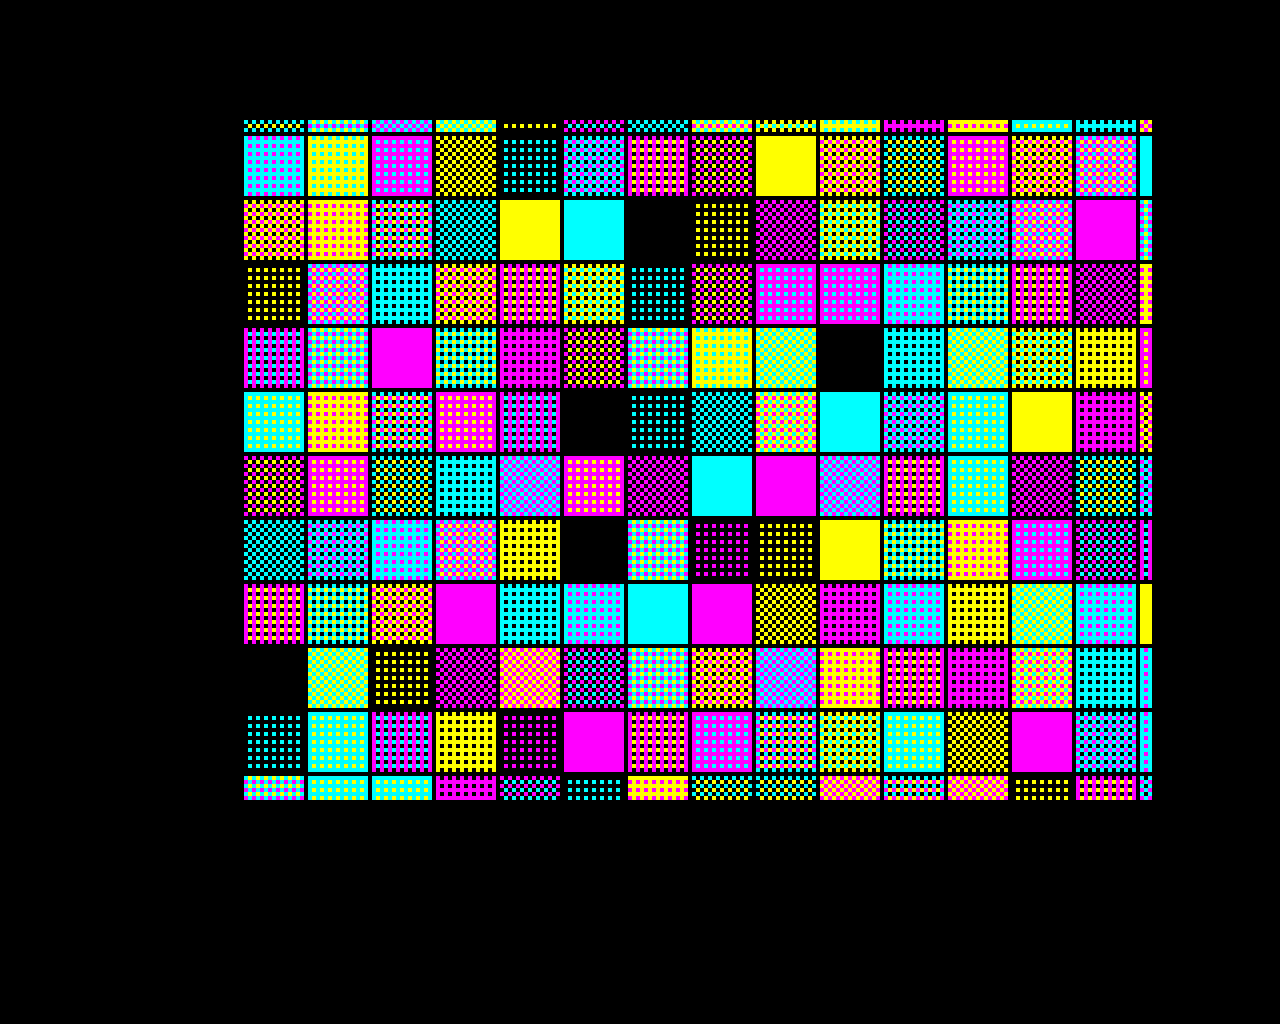
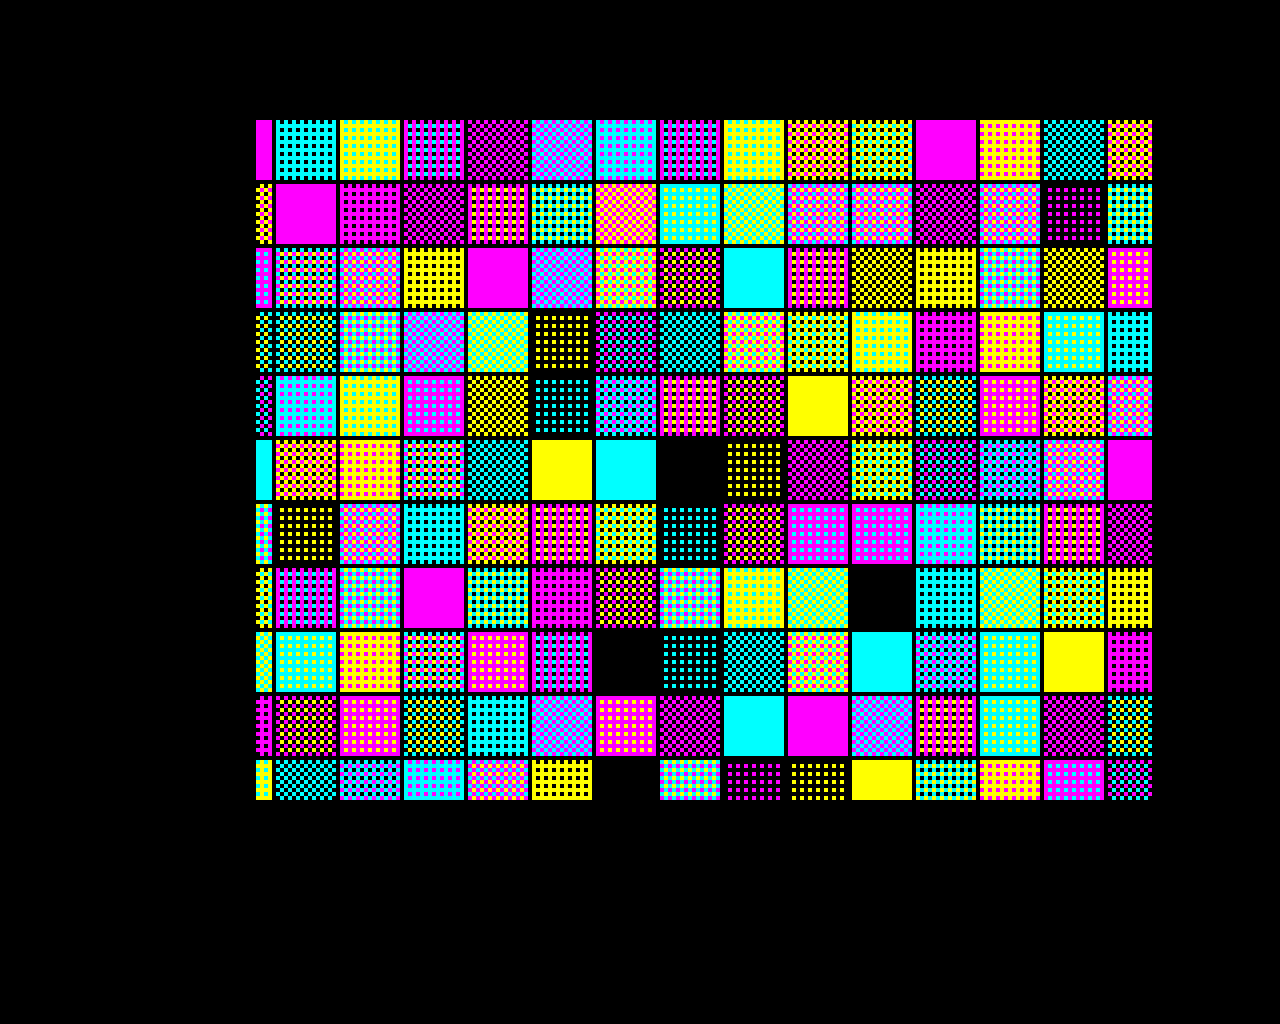
56 wide at character 16, and the leak byte (&7E07) kept zero
On a real Electron a CPU write to the ULA during the display takes that
video slot: the slot shows the RAM byte at the write's address with A15
dropped, RAM[&7E07] for the mode register.  The lead-in's last write
(the window's mode) does this on every window line.  At 57 wide on
character 15 the t = 7 write's slot was the window's first character,
which went black one position in eight; at 56 wide on character 16 it
showed &7E07 in the margin as a thin bar the height of the window.  Found
with debug builds on hardware: writing &0F to &7E00-&7E07 turned the bar
cyan, zeroing them removed it.  Neither CLK nor the FPGA HDL models it.

- gen.py: WIN_C = 16, WIN_W = 56 (the default).
- &7E07 kept zero: build zeroes it every field (after colop, the notch and
  init, which write only below the window), and the strip never writes it
  in the window: block B5 (and build, for its first rows) points gadget
  A's line-7 tail at ZB, a zero next to VO, when its entering cell is
  &7E00.  The strip build's 38 extra cycles come out of CAL_TB.
- elkh: the soak expects black where the window fetches &7E07, and the
  audit counts non-zero stores to it on lines 29-199; soak.sh and soak1.sh
  require none.  emu/CMakeLists.txt: CLK_ROOT may name another checkout.
- Docs: DESIGN.md 4.5 (the leak) and 5.4 (why 56 at 16), ULA-NOTES.md
  15.4 (the finding and its evidence), VERIFICATION.md step 9, README,
  both screenshots.

Six fingerprints (four MODE 1, two MODE 2, both ULA models, 4,000 fields
[…]

diff --git a/emu/elkh.cpp b/emu/elkh.cpp
@@ -42,6 +42,8 @@
 //                          stack, the key bytes and the dummy page; count sideways RAM
 //                          stores by address
 //   auditdump FILE         write the sideways RAM store counts; print the audit summary
+//                          (it also counts non-zero stores to the leak byte, &7E07, on
+//                          lines 29-199: DESIGN.md 4.5)
 //   race N                 N fields: every screen store against the same field's
 //                          display fetches of that byte (a histogram of the gap)
 //   swatch HEXADDR N       N fields: print every store to that sideways RAM address
@@ -129,6 +131,10 @@ struct Model {
 	}
 };
 
+// The byte a real ULA shows in the video slot of a mid-line &FE07 write (DESIGN.md 4.5):
+// the demo keeps it zero, so the soak expects black where the window fetches it.
+constexpr uint16_t kLeak = 0x7e07;
+
 int soak(elk::Machine &m, int nf, const std::string &model_path, const std::string &outp, unsigned wxa, unsigned gca) {
 	Model model;
 	if(!model.load(model_path)) { std::fprintf(stderr, "soak: cannot read the model %s\n", model_path.c_str()); return 1; }
@@ -152,7 +158,10 @@ int soak(elk::Machine &m, int nf, const std::string &model_path, const std::stri
 			for(int x = 0; x < 640; x++) {
 				if(in_rows && x >= x0 && x < x1) {
 					const int ppc = model.ppc(), sh = ppc == 2 ? 2 : 1;	// capture units a pixel: 2 or 4
-					if(c.pix[y][x] != model.colour((pwx * ppc + ((x - x0) >> sh)) % (2560 * ppc), (pwy + y - Y0) % 2560)) bad++;
+					// The leak byte (&7E07, DESIGN.md 4.5) is kept zero: black wherever it is shown.
+					const int want = c.addr[y][x >> 3] == kLeak ? 0
+						: model.colour((pwx * ppc + ((x - x0) >> sh)) % (2560 * ppc), (pwy + y - Y0) % 2560);
+					if(c.pix[y][x] != want) bad++;
 				} else if(c.pix[y][x]) outside++;
 			}
 		}
@@ -214,7 +223,7 @@ int soak(elk::Machine &m, int nf, const std::string &model_path, const std::stri
 // The audit: stores the demo should never make.
 struct Audit {
 	unsigned last_pc = 0;
-	long strays = 0;
+	long strays = 0, leaks = 0;
 	std::map<unsigned, std::pair<long, unsigned>> swram;	// address -> (count, first writer's PC)
 	bool on = false;
 	void start(elk::Machine &m) {
@@ -222,6 +231,12 @@ struct Audit {
 		elk::Machine *mp = &m;
 		m.opcode_hook = [this](uint16_t pc, uint8_t, uint8_t) { last_pc = pc; };
 		m.ram_write_hook = [this, mp](uint16_t a, uint8_t v) {
+			// the leak byte must be zero whenever a window line's &FE07 write can show it
+			// (the palette line, 29, to the last window line, 199; DESIGN.md 4.5)
+			const int line = int(mp->video_.v_count_);
+			if(a == kLeak && v && line >= 29 && line < 200) {
+				if(leaks++ < 40) std::printf("leak byte store %04x=%02x pc=%04x line=%d\n", unsigned(a), unsigned(v), last_pc, line);
+			}
 			// allowed: the screen ring, the stack, the key bytes (&0A00-&0A02), the dummy page (&2400)
 			if((a >= 0x3000 && a < 0x8000) || (a >= 0x100 && a < 0x200) || (a >= 0xa00 && a <= 0xa02) || (a >= 0x2400 && a <= 0x24ff)) return;
 			if(strays++ < 40) std::printf("stray main RAM store %04x=%02x pc=%04x line=%d\n", unsigned(a), unsigned(v), last_pc, int(mp->video_.v_count_));
@@ -237,7 +252,8 @@ struct Audit {
 			for(const auto &e : swram) std::fprintf(f, "%04x %ld %04x\n", e.first, e.second.first, e.second.second);
 			std::fclose(f);
 		}
-		std::printf("audit: %ld stray main RAM stores; %zu sideways RAM addresses written\n", strays, swram.size());
+		std::printf("audit: %ld stray main RAM stores, %ld non-zero leak byte stores in the window; %zu sideways RAM addresses written\n",
+			strays, leaks, swram.size());
 	}
 };
 

diff --git a/tools/gen.py b/tools/gen.py
@@ -40,9 +40,11 @@ import swatch35  # noqa: E402
 Y0 = 30            # first window scanline (the text-mode band above it is at most 30 lines)
 Y1 = 200           # first scanline below the window (MODE 4 from here to the field's end)
 H = Y1 - Y0        # window height in scanlines
-WIN_C = 15         # screen character (MODE 1, 0..79) of the window's left edge: the
-                   # longest lead-in (8 us on the real ULA) must end before it
-WIN_W = 57         # window width in characters.  WIN_C + WIN_W <= 72, so the cells a
+WIN_C = 16         # screen character (MODE 1, 0..79) of the window's left edge.  The
+                   # longest lead-in (8 us on the real ULA) ends with a write to &FE07
+                   # whose video slot shows RAM[&7E07], not its own byte (DESIGN.md 4.5):
+                   # at character 15 that slot was the window's first character
+WIN_W = 56         # window width in characters.  WIN_C + WIN_W <= 72, so the cells a
                    # coarse step exposes are the 72-character ring row's gap cells
 assert WIN_C >= 14 and WIN_C + WIN_W <= 72 and WIN_W <= 61
 MAPW = 2560        # map period, in characters across and in scanlines down
@@ -391,6 +393,11 @@ def gen_loop2():
         ('B', 3): (['\tldy\tVNX', '\tlda\tPO,y', '\tand\tpmask', '\tsta\tVON'],
                    C['ldy'] + C['ldaY'] + C['and'] + C['sta']),
         ('B', 4): hi_slice('B', 4, 6),
+        # the next A row's line 7 is 0 if its entering cell holds the leak byte (&7E07,
+        # DESIGN.md 4.5): tA6 then loads ZB (= VO - 1, always 0), not VO
+        ('B', 5): (['\tlda\tgA+2', '\teor\t#>LEAKCELL', '\tora\tgA+1', '\tcmp\t#1',
+                    '\tlda\t#<(VO-1)', '\tadc\t#0', '\tsta\ttA6+1'],
+                   C['lda'] + 2 + 4 + C['cmp#'] + C['lda#'] + C['adc#'] + C['sta']),
         ('B', 6): (['\tldy\tbq', '\tlda\tMOD160+1,y', '\tsta\tbq'],
                    C['ldy'] + C['ldaY'] + C['sta']),    # the next pair's block row
     }
@@ -402,7 +409,8 @@ def gen_loop2():
             return '#0'                                 # an odd row's line 7: the grid
         return 'VE' if (k + 1) % 2 == 0 else 'VO'
 
-    L = [HEADER, '\t.segment "LOOP2"', '\t.assert\t<* = 0, error, "loop 2 must start a page"']
+    L = [HEADER, '\t.segment "LOOP2"', '\t.assert\t<* = 0, error, "loop 2 must start a page"',
+         '\t.assert\t<LEAKCELL = 0, error, "the B5 slice compares only the leak cell\'s high byte"']
     for P in ('A', 'B'):
         for k in range(8):
             nxt = f'b{P}{k + 1}' if k < 7 else f'b{other[P]}0'

diff --git a/docs/DESIGN.md b/docs/DESIGN.md
@@ -1,10 +1,10 @@
 # elkgame: design of the scroll engine
 
-This document explains how the demo puts a 228 × 170-pixel MODE 1 window on an Acorn
+This document explains how the demo puts a 224 × 170-pixel MODE 1 window on an Acorn
 Electron and scrolls it at 50 Hz. It covers the display tricks first (sections 2–4),
 then how the picture is kept up to date as it moves (5), then the frame's timetable
 (6) and the timing discipline that holds it together (7). Section 9 says what a game
-built on the engine would add, and section 10 how the same engine shows a 114 × 170
+built on the engine would add, and section 10 how the same engine shows a 112 × 170
 MODE 2 window.
 
 The ULA behaviour everything depends on is set out, with sources, in
@@ -64,8 +64,8 @@ The engine works round all four:
 
 | | |
 |---|---|
-| size | 57 characters × 170 scanlines = 228 × 170 pixels |
-| position | screen character 15 (of 80) across; lines 30–199 |
+| size | 56 characters × 170 scanlines = 224 × 170 pixels |
+| position | screen character 16 (of 80) across; lines 30–199 |
 | above it | lines 0–29: black. Lines 0 and 1 are MODE 1 or MODE 3 (for the lock); the rest MODE 4, with 0–3 rows of 10-line text mode (MODE 6) at the top |
 | below it | lines 200–312: black, MODE 4 (display end at line 255) |
 | palette | black, cyan, magenta, yellow; set on line 29, blacked out at line 200 |
@@ -78,7 +78,7 @@ The engine works round all four:
 The ULA displays 80 characters a line, but the engine lays the 20K screen ring out
 (&3000–&7FFF, which the ULA wraps) as rows of **72 characters (576 bytes)**. Each
 displayed line therefore fetches only 72 to 79 characters before the next row begins,
-and a row's 72 cells hold the window's 57 and 15 gap cells, which are kept zero (black).
+and a row's 72 cells hold the window's 56 and 16 gap cells, which are kept zero (black).
 
 Why 72 and not 80:
 
@@ -274,8 +274,9 @@ characters before where it would have been. With t = 0..7 and the screen start i
 - t = (`WIN_C` − wx) & 7;
 - the screen start is at column wx − `WIN_C` + t, which is a multiple of 8.
 
-The window starts at character 15 because the longest lead-in (8 µs on the real ULA,
-section 4.3) must be over before the window's first pixel.
+The window starts at character 16 because the longest lead-in (8 µs on the real ULA,
+section 4.3) must be over before the window's first pixel, and its last write takes a
+video slot of its own (4.5).
 
 ### 4.2 Keeping the rows aligned: the blip and MODE 3
 
@@ -334,6 +335,44 @@ In the HDL simulation of the engine's 55-wide sibling, the FPGA schedule passed 
 14 of the 16 phases. The real schedule covered the other two, so between them the two
 schedules cover every phase (`VERIFICATION.md`).
 
+### 4.5 The leak byte: what a mid-line ULA write shows
+
+On a real ULA a CPU write to a ULA register while the ULA is fetching for the display
+takes that video slot: the slot's RAM cycle uses the CPU's address with A15 dropped,
+so instead of its own byte the slot shows **RAM[&7E00 + the register's address low
+byte]**, painted in the new mode. Reads seem not to: every window line reads &FE00 in
+mid-window, and nothing shows there. Neither the CLK fork nor the FPGA HDL models it
+(`ULA-NOTES.md` 15.4). It was found on hardware with this engine:
+
+- **The lead-in's last write** is the window's mode to &FE07, at t + 1 µs on the real
+  schedule. Its slot shows **RAM[&7E07]**. With t = 7 it lands at h 120, character
+  15: with the window at character 15 that was the window's first character, which
+  went black at one position in eight. So the window starts at **character 16**, and
+  is 56 wide (WIN_C + WIN_W ≤ 72, 5.4); every lead-in's last slot is in the margin.
+- **In the margin** the slot is a gap position, black by design, but it shows &7E07,
+  which is screen memory like the rest of the ring: map data, a different cell's line 7
+  as the window moves. Unless &7E07 is zero, a one- or two-pixel bar the height of the
+  window follows the lead-in's end, coloured by whatever the scroll last drew there.
+  The blip (&FE07 in the right margin when t ≤ 1) shows the same byte.
+- **The engine keeps &7E07 zero.** `build` stores 0 there every field, after `colop`,
+  the notch and `init`, which write only in the bottom of the frame. In the window the
+  only writer is the strip's even-row gadget: an even row's line 7 is `VO`, an odd
+  row's is 0. When gadget A's entering cell is &7E00, its line-7 tail (`tA6`) loads
+  `ZB`, a zero byte just below `VO`, instead: block B5 decides for each A row from the
+  address it has just prepared (the `('B', 5)` slice in `gen_loop2`), `build` for the
+  rows it sets up. So the test pattern has one black byte: line 7 of whichever map cell
+  is at &7E00. The soak expects it, and its audit counts non-zero stores to &7E07 on
+  lines 29–199 (`VERIFICATION.md`).
+- **Writes in the horizontal blanking** (MODE 3 at +9 µs, the lead-in mode at +15/+17,
+  the palette on line 29, the band's ends) have no slot to take.
+
+**For a game.** The ULA decodes A0–A3 in page &FE, so the mode register has sixteen
+addresses, &FE07 to &FEF7, which show &7E07 to &7EF7: line 7 of every other cell from
+&7E00 to &7EFF. A game whose map cannot spare a black byte at &7E07 could choose, each
+field, a mirror whose byte is zero (often a gap cell, or a black line), and fall back
+to zeroing one that is not on show; the remaining case, all sixteen on show and
+non-zero, needs the chosen byte zeroed for every line but its own.
+
 ---
 
 ## 5. Keeping the picture up to date
@@ -385,7 +424,8 @@ The preparation is striped across the row's eight line blocks:
 **The data.** The pattern needs only two bytes per colour pair (a block row, two
 character rows): `VE` for even lines and `VO` for odd. An odd map row's line 7 is
 always 0 (the grid line). So each block's tail loads `VE`, `VO`, `VEN` (the next row
-of a new pair) or #0. For a game these would become tile-data fetches in the same
+of a new pair) or #0 — or `ZB`, a zero, for an even row's line 7 when its entering cell
+holds the leak byte (4.5). For a game these would become tile-data fetches in the same
 slots.
 
 **What the builder does.** `build` no longer touches each row. It sets up:
@@ -498,21 +538,24 @@ Before the split, the whole drawing was variable work, 3,300–4,100 cycles. The
 one plan, so **at most 2 lines a field** (`DYMAX`, asserted). A second notch would need
 another 2,120 cycles of fixed work, which the bottom of the frame doesn't have.
 
-### 5.4 Why 57 characters, and the one-column rule
+### 5.4 Why 56 characters at 16, and the one-column rule
 
-The window's width and position are set by the behind column. Going right, a 2-column
-step's first entering column is stored a field early, in row y's cell at mx + W. Along
-the tape that is row y+1's cell mx − 15, its first gap cell:
+The position is set by the lead-in: its longest, 8 µs on the real ULA, must end before
+the window, and its last write takes a slot (4.5), so the window starts at character
+16. The width is then set by the behind column. Going right, a 2-column step's first
+entering column is stored a field early, in row y's cell at mx + W. Along the tape
+that is row y+1's cell mx + W − 72, its first gap cell:
 
-- **Width.** With a 58-character window the gap is only 14 cells, which the left
-  margin shows when t = 0, and the cell would be displayed in row y+1 in the early
-  field. 57 is the widest that avoids this.
-- **The rule at character 15.** At character 15 the margin can show all 15 gap
+- **Width.** The cell would be displayed in row y+1 in the early field if the margin
+  showed it, and with no lead-in the margin shows WIN_C cells. So WIN_C + WIN_W ≤ 72,
+  and 56 is the widest at character 16.
+- **The one-column rule.** At WIN_C + WIN_W = 72 the margin can show all 16 gap
   cells. So `logic` takes a 2-column step right as a single column whenever the field
   before the commit would have no lead-in. After that the lead-in's parity stays odd,
   so the rule costs at most one field, once.
 
-The 55-wide sibling at character 16 needs no such rule.
+(The research tree's 55-wide build at character 16 needed no such rule; the 57-wide
+one at character 15 had it, and lost its first character to the leak at t = 7.)
 
 ---
 
@@ -692,7 +735,7 @@ it into the Electron counterpart of beebgame, a game would replace or add:
 
 ## 10. The MODE 2 window (`SCRMODE=2`)
 
-The same engine shows a **114 × 170-pixel MODE 2 window**, with the same memory layout,
+The same engine shows a **112 × 170-pixel MODE 2 window**, with the same memory layout,
 timing and scrolling. It has sixteen logical colours, eight of them distinct on
 screen. MODE 0, 1 and 2 fetch identically: 80 bytes a line, one every half
 microsecond. So the ring, the lead-in, the blip, the strip and the notch all work on

diff --git a/docs/VERIFICATION.md b/docs/VERIFICATION.md
@@ -102,6 +102,7 @@ not been simulated on the HDL.**
 | 6, MODE 2 | the window's screen mode a build option (`SCRMODE=2`: 114 × 170 pixels, sixteen colours, the CPC-palette test card); both demos built by default | MODE 1: timing identical to the build before (six fingerprints: every write, the fixed work and the lock read, in every field). Negative control: the MODE 2 program against the MODE 1 model fails 200 of 200 fields. Soak: 16 runs × 50,000 fields = 800,000, four runs each of MODE 1 and MODE 2 on each ULA model, all clean; lock read at h 344–664 |
 | 7, split notch | the vertical step as a plan (variable work, ~1,400 cycles) and constant-time stores after display end (`nstore`, ~2,120 cycles, every field) | six fingerprints: picture writes identical, fixed work +0. A field with a step: 2,000–2,900 cycles of variable work (was 3,800–5,200). Negative control (by accident): a wrong span-mask offset failed every field. Soak: 16 runs × 50,000 fields = 800,000, both modes on both ULA models, all clean |
 | 8, MODE 4 | lines 2–29 MODE 4 (MODE 6 in the band) instead of MODE 1/3: loop 1 gone, 2,595 cycles of free fixed-length time above the window, the strip build there; MODE 4 below the window, display end at line 255 | six fingerprints: every write from the palette line on identical (the window's exit's value aside), the lock read's spread as before (h 344–680). The strip build made constant (960 cycles: `addrow` off the stack). Soak: 16 runs × 50,000 fields = 800,000, both modes on both ULA models, all clean; variable work ended by line 223 |
+| 9, 56 wide; the leak byte | the window at character 16, 56 wide; &7E07 kept zero (DESIGN.md 4.5): `build` zeroes it every field and, with block B5, keeps the strip from writing it; the soak expects black there, and its audit counts non-zero stores to &7E07 on lines 29–199 | six fingerprints (four MODE 1, two MODE 2, both ULA models, 4,000 fields each): every &FExx access identical to the 56-wide build without the fix, 29.6 million in all (the strip build's 38 cycles taken from `CAL_TB`). Negative control: the same soak without the fix, 4 runs × 20,000 fields, fails all four (19–25% of fields wrong, 36–53 non-zero stores to &7E07 a run, all from gadget A's entering store). Soak: 16 runs × 20,000 fields = 320,000, both modes on both ULA models, all clean, no store to &7E07 in the window; variable work ended by line 223; lock read at h 344–680 |
 
 To run the soak yourself: `make emu`, put the ROMs in `roms/`, then
 `test/soak.sh -n 100000 -r 40`. With eight runs at once a run of 100,000 fields takes
@@ -109,10 +110,15 @@ about seven minutes.
 
 ## 5. What is not yet known
 
-- **This build has not run on a real Electron.** The probe discs it was derived from
-  have (probes 1–9, on an issue 6 machine with a Ferranti ULA), and so have earlier
-  scroll tests. The changes since the last hardware test are the mode 7 lead-in and
-  the two-read lock.
+- **This build has not run on a real Electron.** The 57- and 56-wide builds before it
+  have, on 21 November 2026, on the real ULA's schedule: the picture locked and
+  scrolled, and no misplaced line or character was reported, but a mid-line write to &FE07
+  showed RAM[&7E07] (DESIGN.md 4.5; `ULA-NOTES.md` 15.4), which this build keeps black.
+  The probe discs it was derived from also ran (probes 1–9, on an issue 6 machine with
+  a Ferranti ULA).
+- **The leak's details.** That the slot follows the write's address (a mirror such as
+  &FEF7 should show &7EF7), how many of the leaked byte's pixels show, and whether
+  writes to &FC and &FD pages take a slot too, are still to be tried.
 - **Mode 7's wrap to &3000** is taken from pastraiser.com's hardware notes. The probes
   confirmed the real ULA's address phase, but not this wrap.
 - **The CPU/video phase.** On an FPGA ULA it varies from power-up to power-up

diff --git a/docs/ULA-NOTES.md b/docs/ULA-NOTES.md
@@ -661,3 +661,36 @@ moved a window's lead-in through every schedule and photographed the result.
 - **The fix.** The engine now locks with two stalled reads (DESIGN.md 3.1) and pads its
   fixed work so that the lock read lands in the same place whatever the field did.
   This is the likely cause of what was seen, but not proven on hardware.
+
+### 15.4 A CPU write to the ULA takes the video slot (21 November 2026)
+
+- **What it is.** On a real Electron, a CPU write to a ULA register while the ULA is
+  fetching for the display takes that video slot: the byte shown there is the RAM byte
+  at the CPU's address with A15 dropped, **RAM[&7E00 + the address's low byte]** (for
+  &FE07, RAM[&7E07]), painted in the mode the write sets. The ULA decodes A0–A3 in
+  page &FE, so &FE07's mirrors &FE17 … &FEF7 show &7E17 … &7EF7.
+- **Reads.** Apparently not: every window line reads &FE00 in mid-window (character
+  ~44), and nothing shows there.
+- **Found with** the scroll demo on a real Electron, on the lead-in's last write
+  (the window's mode, DESIGN.md 4.5):
+  - at 57 wide on character 15, the window's first character went black at one
+    position in eight (t = 7, whose write lands on character 15);
+  - at 56 wide on character 16, a thin bar the height of the window, in the left
+    margin, at the lead-in's end: it moved two characters a column step (the end
+    moves 1 µs), went with t = 0, and its colour depended on the scroll's path and
+    position, not on the window's bytes;
+  - a debug build's keys: zeroing what the band above the window fetches cured it only
+    when &7E00 was in that area; writing &0F to &7E00–&7E07 turned the bar cyan, and
+    zeroing them removed it. The colours seen matched &7E07's contents in nine
+    emulated states, and nothing else.
+- **Not yet tested:** the bar should move to &7EF7 with the write at &FEF7
+  (`ELKALIAS56`); whether &FE01 or page &FF also reach the mode register; whether
+  writes to the expansion pages (&FC, &FD), which the ULA also stretches to 1 MHz,
+  take a slot (they would show &7Cxx, &7Dxx).
+- **The models.** The FPGA keeps CPU and video on separate ports of a dual-port RAM,
+  so it cannot show this, though its clock stretching treats &FC–&FE accesses exactly
+  like RAM accesses (`ram_access = '1' or io_access = '1'`, ElectronULA.vhd L1258).
+  CLK does not model it either; the demo keeps &7E07 zero and the soak checks it.
+- **It may bear on 15.1.** The probes' "real chip steps in the first half" was read
+  from where a mode write's switch showed; a write that takes its own slot would show
+  one character differently. The engine's schedules work either way.

diff --git a/README.md b/README.md
@@ -1,8 +1,8 @@
 # elkgame
 
 A large, smoothly scrolling playfield for the **Acorn Electron**, in 6502 assembler: a
-window 57 characters × 170 scanlines -- **228 × 170 pixels in MODE 1** (four colours)
-or **114 × 170 in MODE 2** (sixteen) -- that scrolls in both directions at **50 frames
+window 56 characters × 170 scanlines -- **224 × 170 pixels in MODE 1** (four colours)
+or **112 × 170 in MODE 2** (sixteen) -- that scrolls in both directions at **50 frames
 a second**, a character at a time across and two scanlines at a time down, on an
 Electron with **one bank of sideways RAM**.
 The Electron has no hardware scrolling finer than a character row and no raster
@@ -71,11 +71,16 @@ The engine was developed against Clock Signal's core corrected to match hoglet's
 ElectronFpga HDL, then against measurements from probe programs run on an issue 6
 Electron, which showed where the real ULA differs (the two schedules above).  It is
 checked in the emulator field by field, every window pixel against the pattern, on
-random trajectories and both ULA models. This build has passed 800,000 fields (its
-predecessors in this repository 4.8 million); the build it was imported from passed
-7.2 million, and a 55-wide sibling 31.2 million
-(`docs/VERIFICATION.md`).  **This build has not yet been run on a real Electron**;
-the probe discs it was derived from have.
+random trajectories and both ULA models. This build has passed 320,000 fields (its
+predecessors in this repository 5.6 million); the build it was imported from passed
+7.2 million, and a 55-wide sibling 31.2 million (`docs/VERIFICATION.md`).
+
+**On a real Electron** the 57- and 56-wide builds ran, and showed something no emulator models:
+a CPU write to the ULA during the display takes that video slot, which shows the RAM
+byte at the write's address with A15 dropped -- &7E07 for the mode register
+(`docs/DESIGN.md` 4.5).  Hence the window's move to character 16, 56 wide, and the one
+byte the demo keeps black: &7E07, wherever the map puts it.  The build with that fix
+has not yet been run on hardware.
 
 ## Building
 
